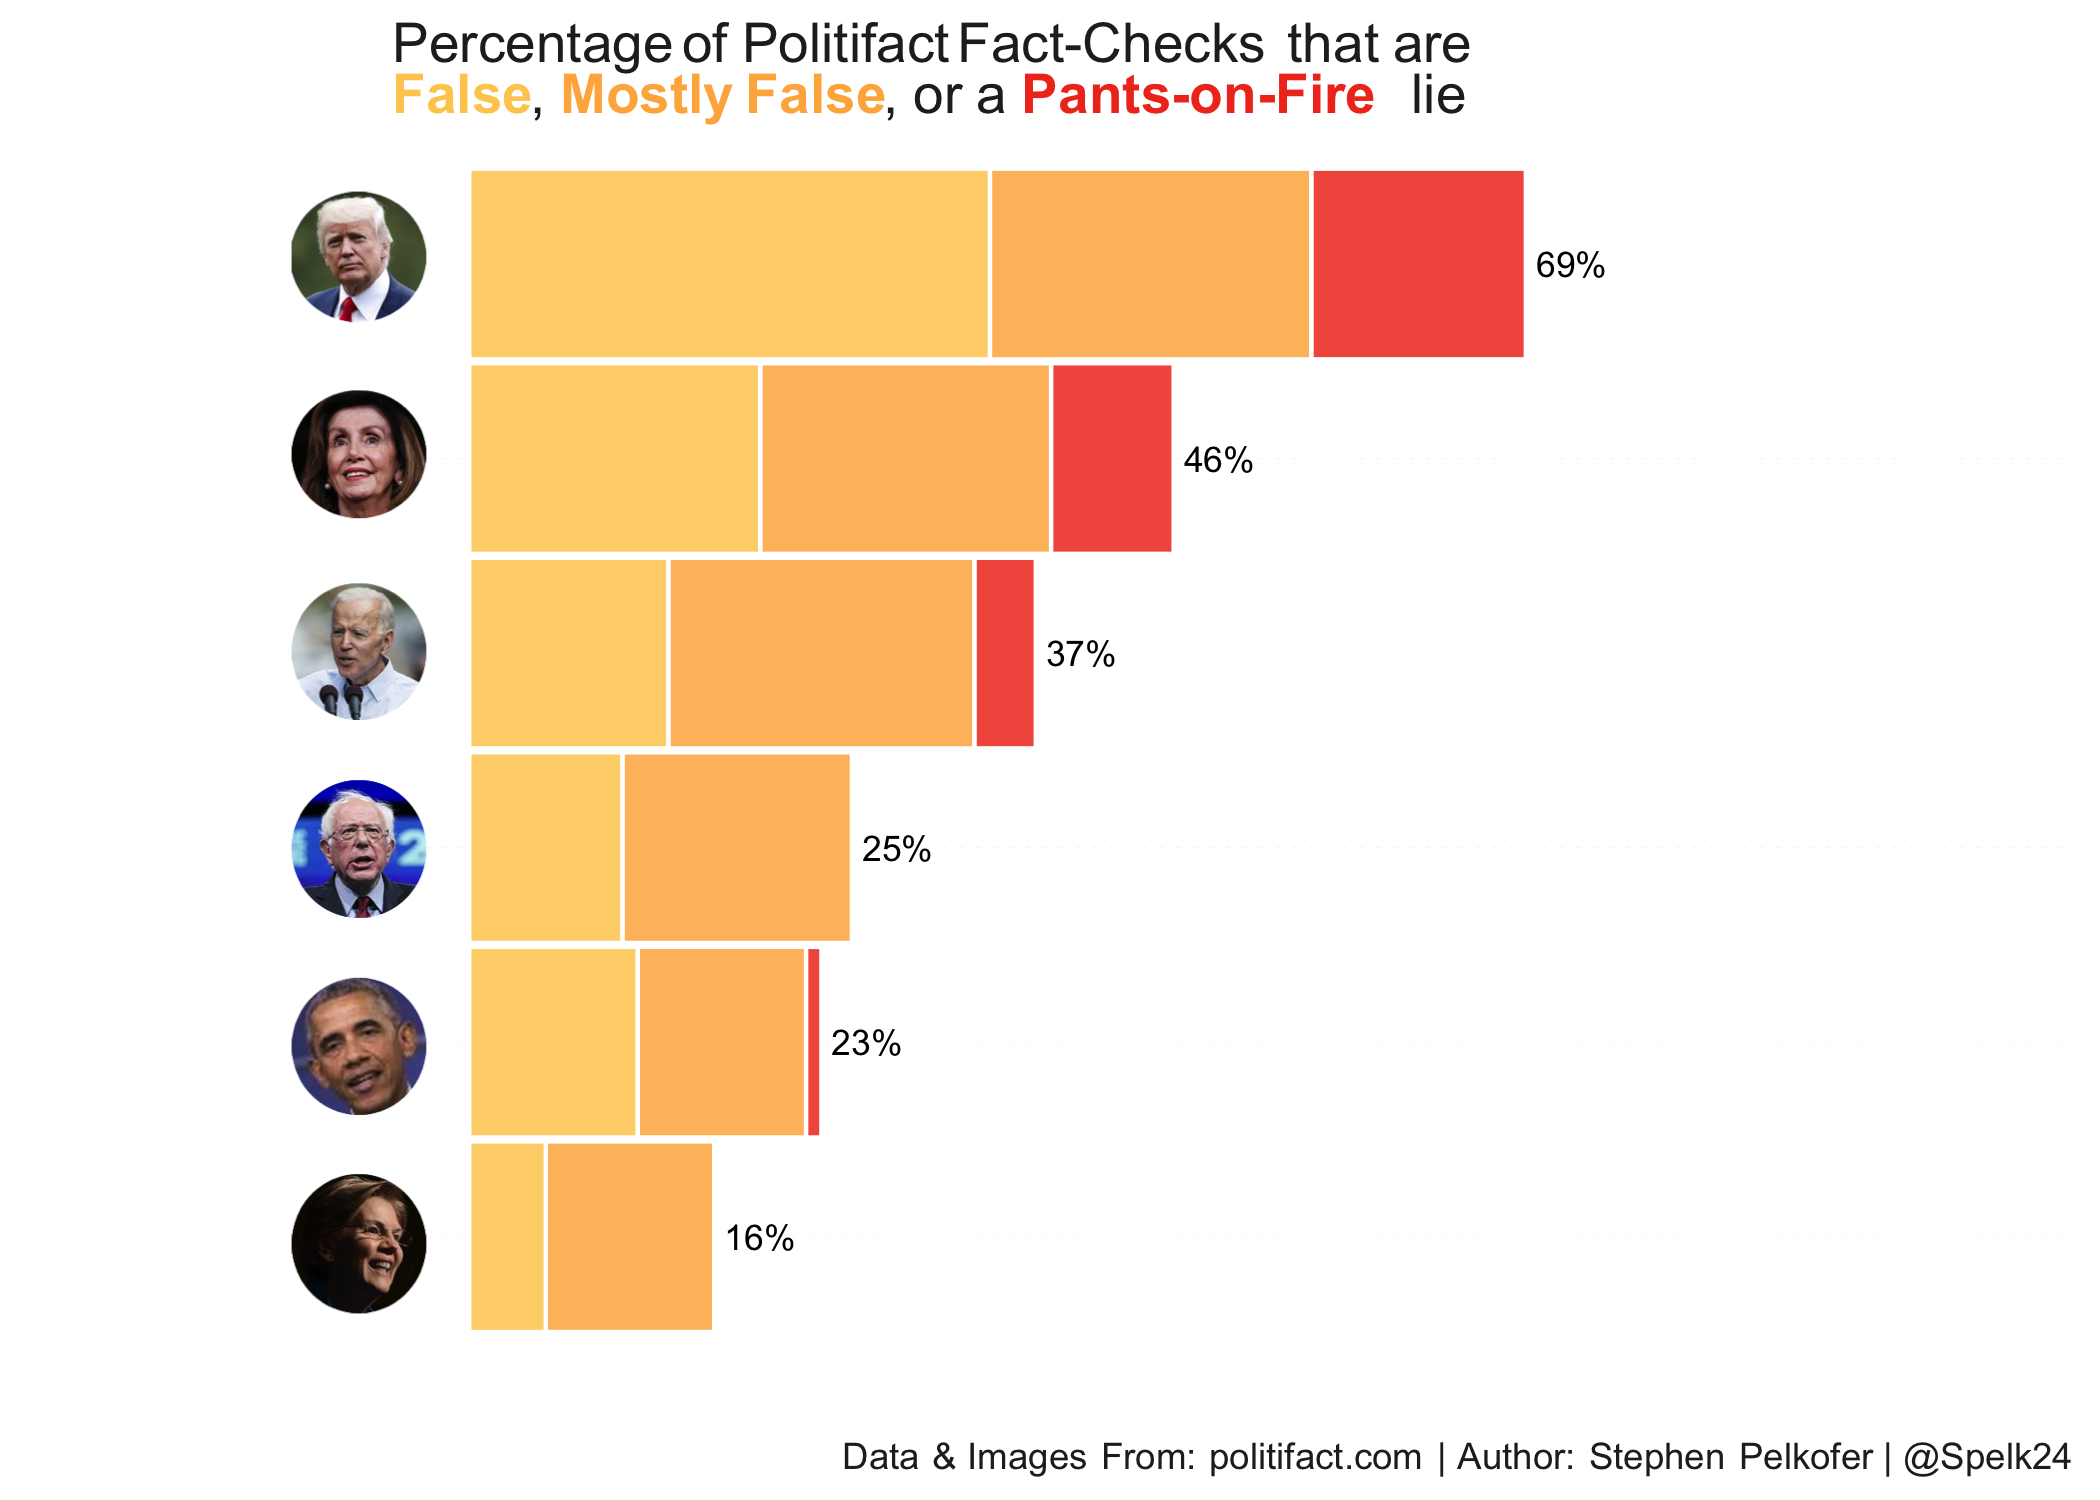
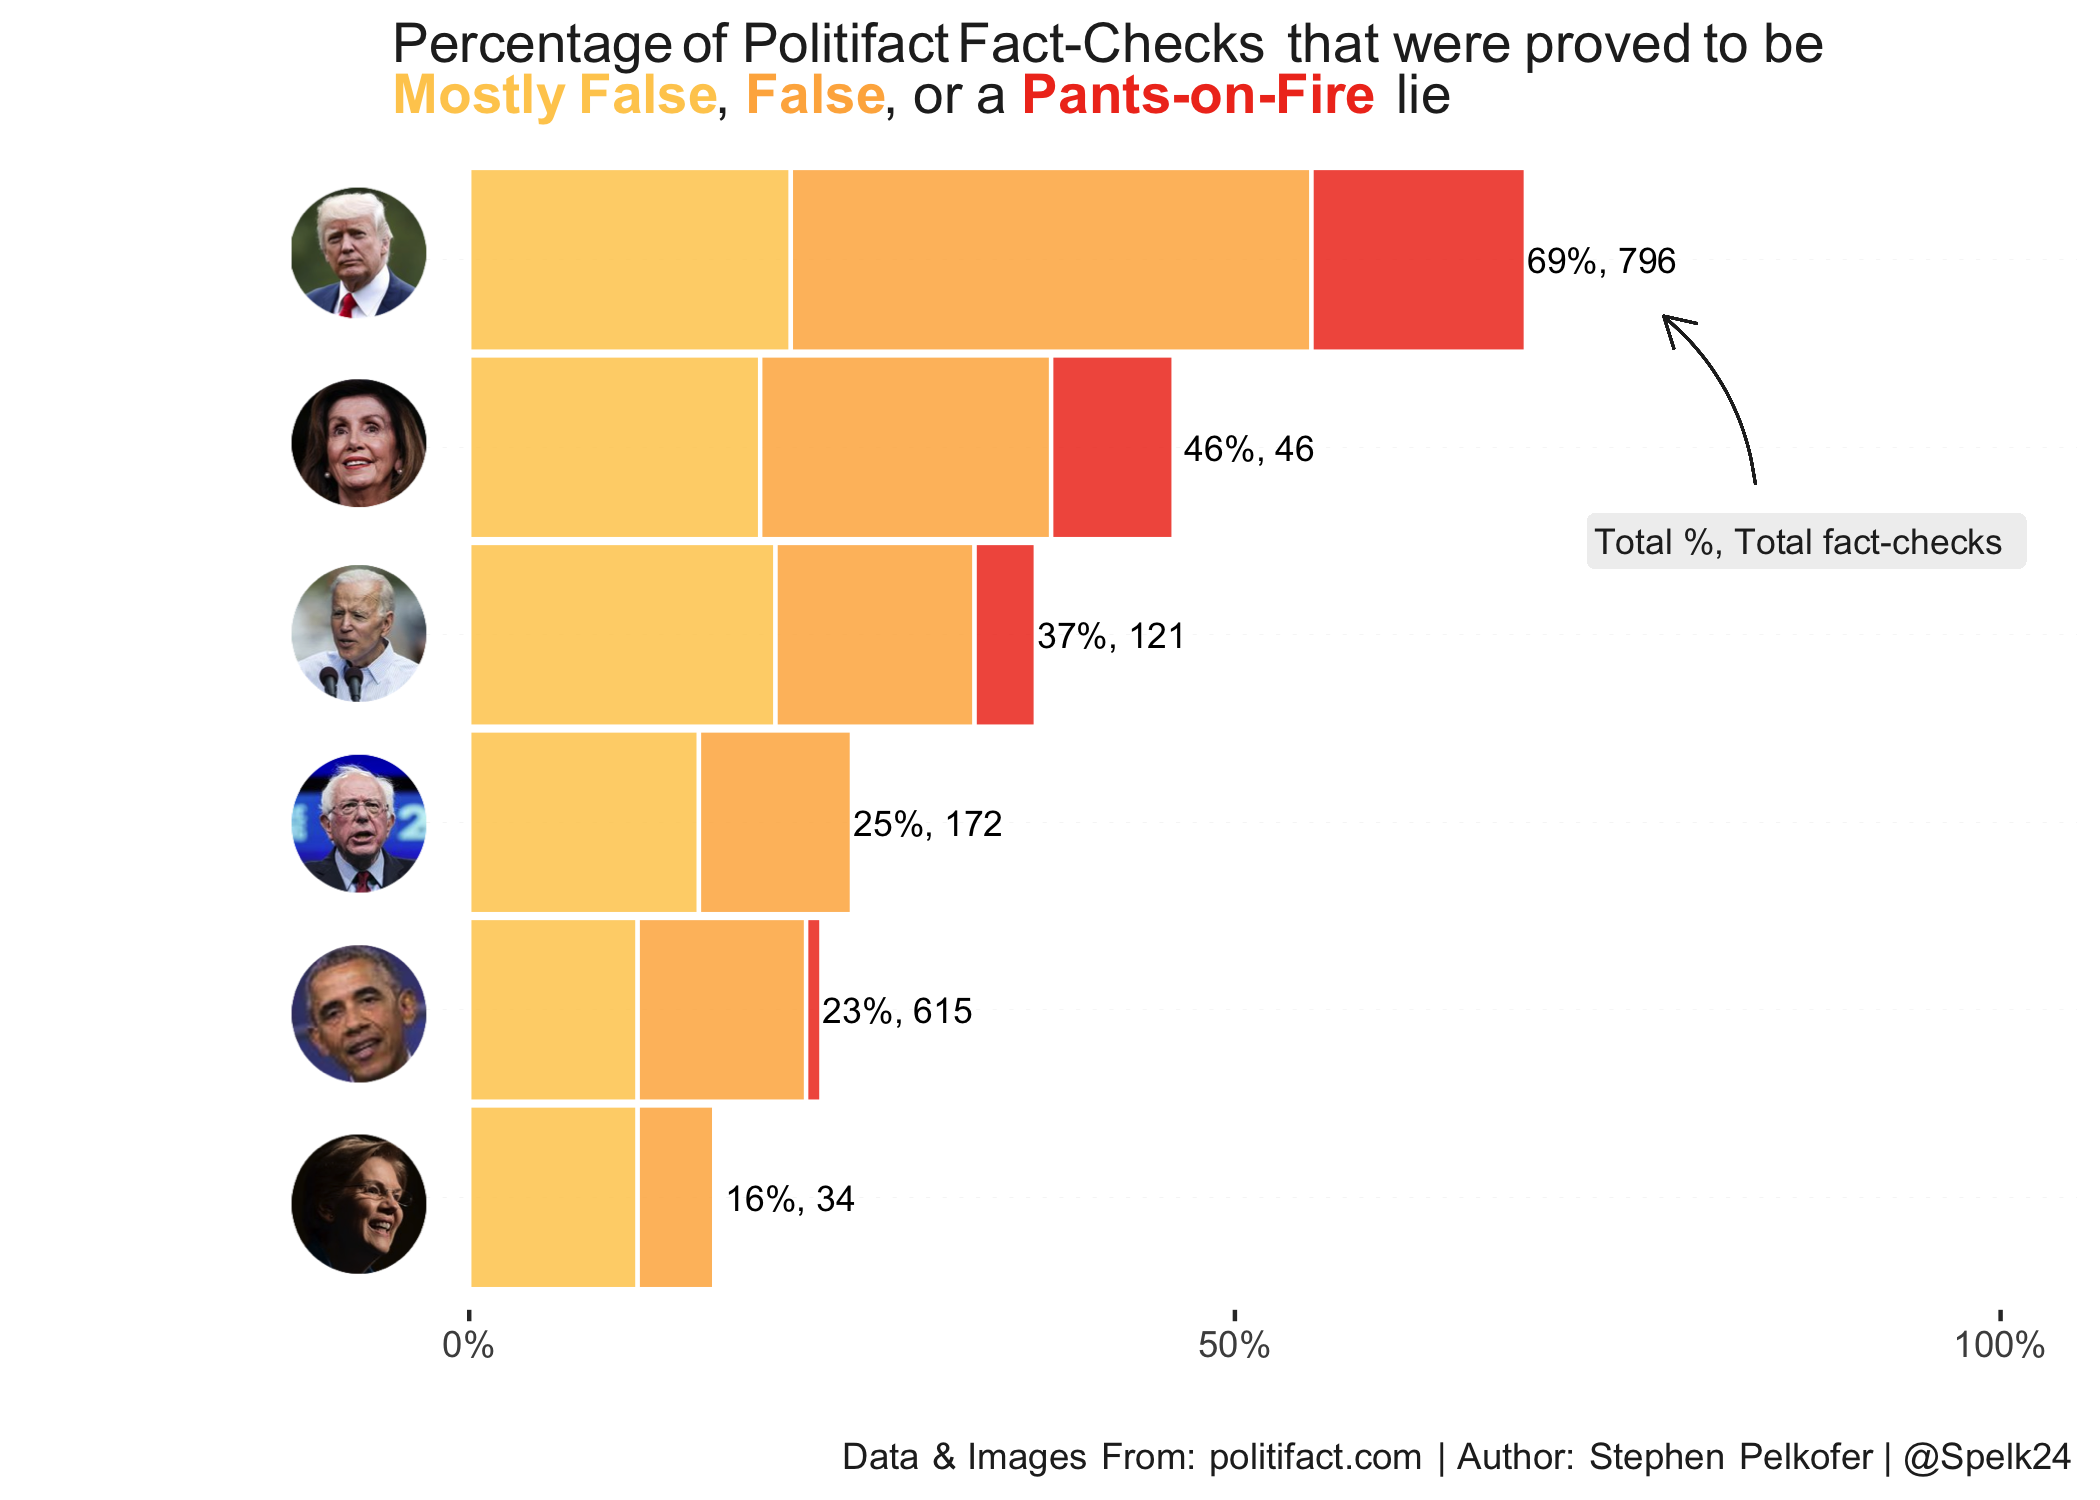
better plots

diff --git a/README.md b/README.md
@@ -6,4 +6,6 @@ Data from: [politifact.com](politifact.com)
 
 ## Example Plots
 
+Data as of 4/23/2020
+
 <img src="images/StackedLies.png" width="550" height="400" />
